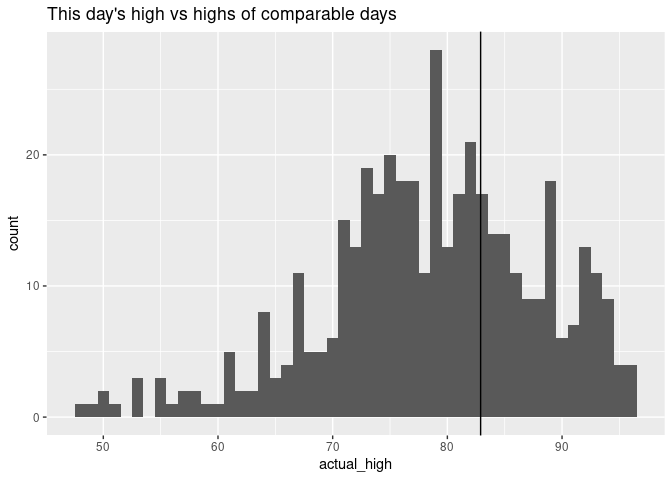
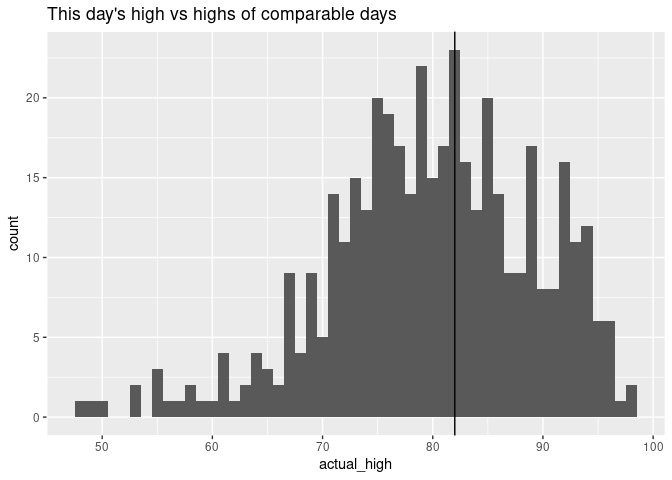
Update rendered quarto docs

diff --git a/readme.md b/readme.md
@@ -7,26 +7,26 @@
 
 - <https://www.ncei.noaa.gov/data/global-summary-of-the-day/doc/readme.pdf>
 
-# High/Low data for 2024-05-30
+# High/Low data for 2024-06-01
 
 ## Updated at
 
-2024-06-03 12:18:04 MDT
+2024-06-04 12:17:04 MDT
 
 ## Highs
 
-This day’s high of **82.9F** was in the **sixty-sixth percentile** for
+This day’s high of **82F** was in the **fifty-fifth percentile** for
 highs in similar days.  
-The last time the high was this high (or higher) was **2024-05-29**,
+The last time the high was this high (or higher) was **2024-05-30**,
 when the high was **82.9F**.
 
 ![](readme_files/figure-commonmark/unnamed-chunk-4-1.png)
 
 ## Lows
 
-This day’s low of **50F** was in the **sixty-eighth percentile** for
+This day’s low of **53.1F** was in the **eighty-second percentile** for
 lows in similar days.  
-The last time the low was this low (or lower) was **2024-05-29**, when
+The last time the low was this low (or lower) was **2024-05-31**, when
 the low was **48F**.
 
 ![](readme_files/figure-commonmark/unnamed-chunk-6-1.png)

diff --git a/readme-gfm.md b/readme-gfm.md
@@ -12,7 +12,7 @@
 
 ## Updated at
 
-2024-06-02 12:16:45 MDT
+2024-06-03 12:18:04 MDT
 
 ## Highs
 
